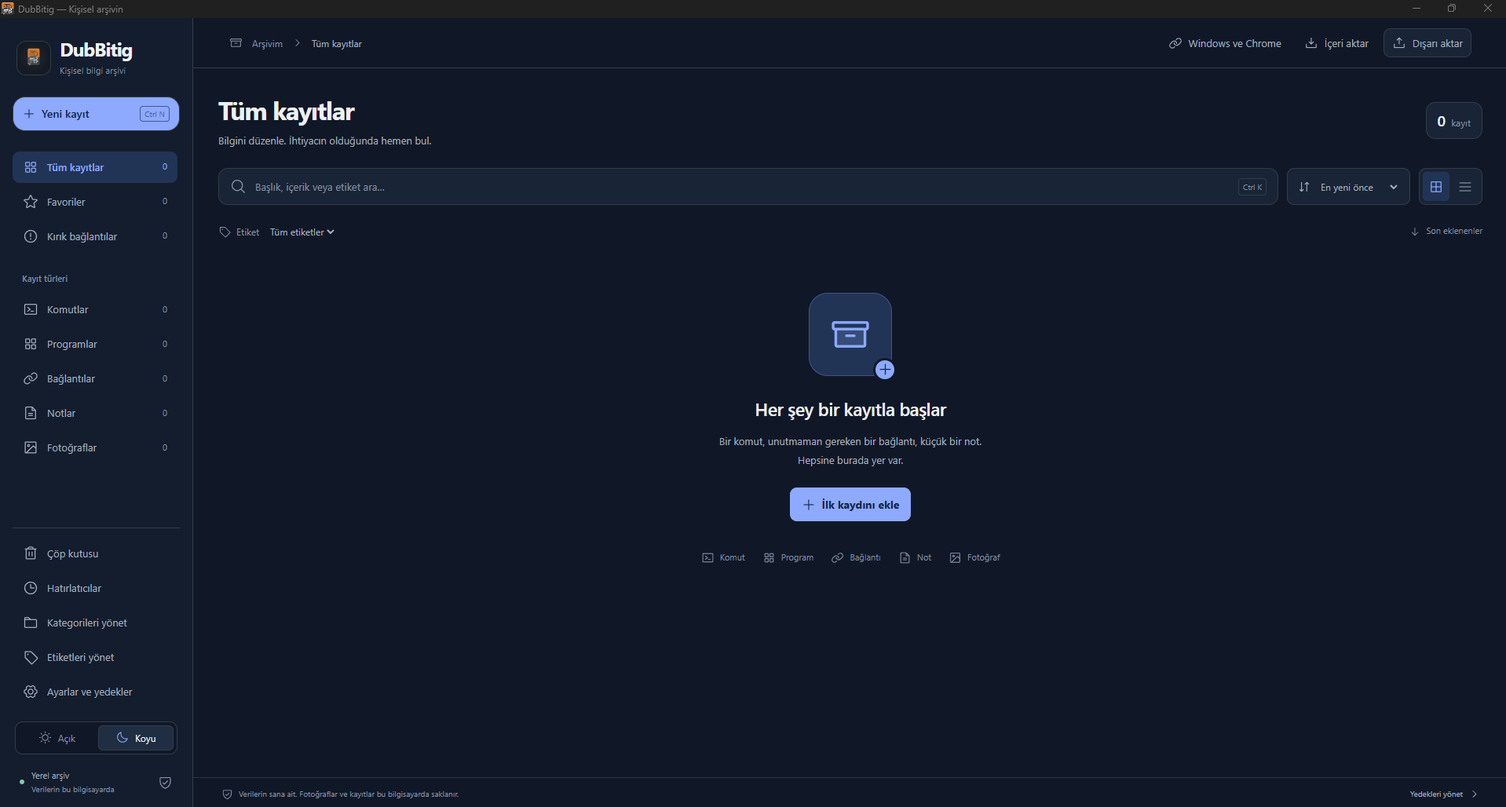
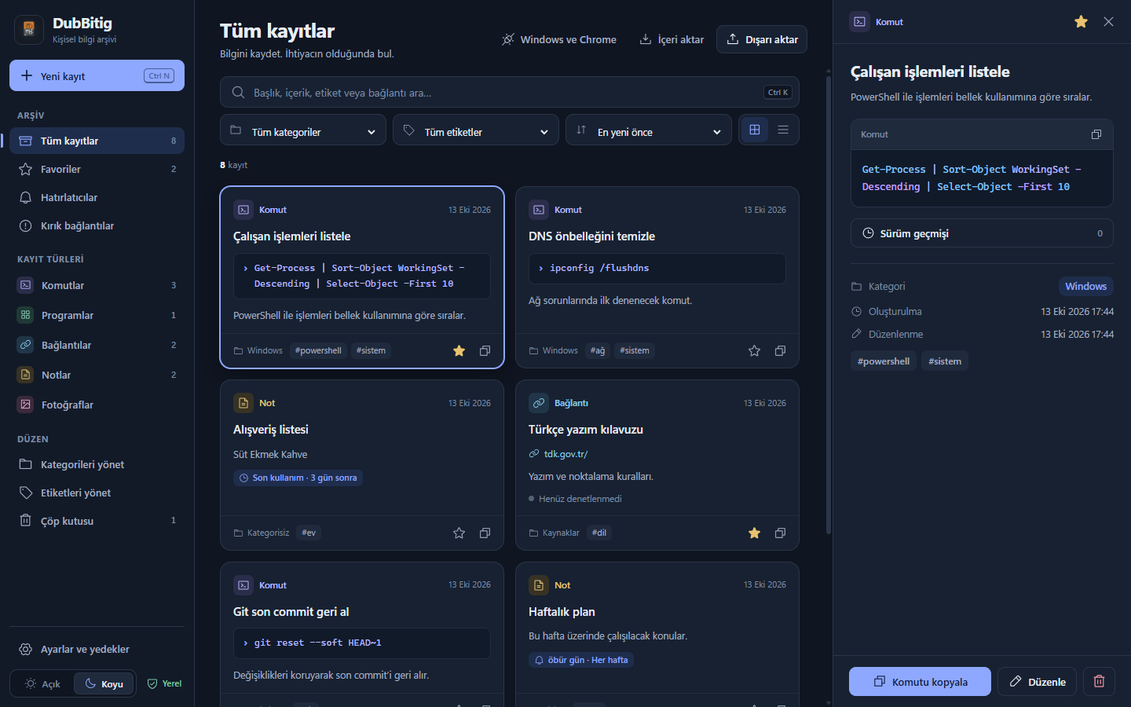
Çöp kutusunu boşaltma ekle, sürümü 1.7.0 yap ve ekran görüntülerini yenile
- Çöp kutusunu boşalt ve tek kaydı kalıcı silme; yalnızca bu kayıtlara ait
  fotoğraflar diskten kaldırılır, paylaşılan fotoğraflar korunur
- Hiçbir kayda ait olmayan, 1 günden eski fotoğraf/önizleme dosyaları her
  açılışta ve Ayarlar > Veriler'den temizlenir; kaydedilmemiş formların yeni
  fotoğrafları korunur
- Liste görünümünde fotoğraf küçük resmi, kaydedilen kartın vurgulanması
- Sürüm 1.6.0 -> 1.7.0 (uygulama, Chrome eklentisi, başlatıcı, README)
- README ekran görüntüleri yeni arayüzle; npm run screenshots ile yeniden üretilir

diff --git a/src/components/settings-panel.tsx b/src/components/settings-panel.tsx
@@ -23,8 +23,8 @@ export function SettingsPanel({ close, changed, notify, transfer, reset }: { clo
         <div className="section-heading"><h3>Bu bilgisayardaki yedekler</h3><Button variant="ghost" size="sm" onClick={()=>action(()=>getAPI().openFolder('backup'))}><FolderOpen/>Klasörü aç</Button></div><div className="backup-list">{backups.map(b=><div key={b.name}><HardDrive size={20}/><span><strong>{date(b.date)}</strong><small>{b.name.endsWith('auto.sakli')?'Otomatik yedek':'Güvenlik / elle alınan yedek'} · {Math.max(1,Math.round(b.size/1024))} KB</small></span><Button variant="outline" disabled={busy} onClick={()=>action(async()=>{if(await getAPI().restoreBackup(b.name)>=0)notify('Yedek geri yüklendi.');})}><RotateCcw/>Geri yükle</Button></div>)}{!backups.length&&<p className="muted">Henüz yedek yok.</p>}</div>
       </TabsContent>
       <TabsContent value="general" className="space-y-5"><h3>Bağlantılar ve hatırlatıcılar</h3><div className="setting-row"><div><strong>Arka planda bağlantı denetimi</strong><p>Bağlantılar günde bir denetlenir. 404 ve 410 yanıtları kırık, erişim engeli ve zaman aşımı belirsiz gösterilir.</p></div><label className="switch"><input type="checkbox" aria-label="Arka planda bağlantı denetimi" checked={settings?.linkChecker??true} disabled={busy||!settings} onChange={e=>action(()=>getAPI().setLinkChecker(e.target.checked))}/><span/></label></div><div className="flex flex-wrap gap-2"><Button variant="outline" disabled={busy} onClick={()=>action(async()=>{const r=await getAPI().checkLinks();notify(`${r.checked} bağlantı denetlendi, ${r.broken} kırık bağlantı bulundu.`);})}>Bağlantıları şimdi denetle</Button><Button variant="outline" disabled={busy} onClick={()=>action(()=>getAPI().testNotification(),'Deneme bildirimi Windows’a gönderildi.')}>Bildirimi dene</Button></div><p className="hint">Hatırlatıcılar uygulama açıkken çalışır. Kaçırılan tarihler sonraki açılışta bildirilir.</p><div className="settings-callout"><Info/><p>Saatin yanındaki DubBitig simgesinden pencereyi gizleyebilir, açabilir veya panodakini kaydedebilirsin. Pencereyi gizlediğinde hatırlatıcılar çalışmaya devam eder. Pencereyi kapattığında uygulama sistem tepsisine gizlenir; hatırlatıcılar ve yedekleme çalışmaya devam eder. Tamamen kapatmak için tepsi menüsünden Çıkış seç.</p></div><h3>Görünüm</h3><p className="muted">Sol menünün altındaki Açık / Koyu seçimiyle temayı değiştirebilirsin.</p></TabsContent>
-      <TabsContent value="data" className="space-y-6"><section><h3>Veri konumu</h3><div className="data-location"><code>{settings?.dataPath??'Yükleniyor…'}</code><Button variant="ghost" size="icon" aria-label="Veri klasörünü aç" onClick={()=>action(()=>getAPI().openFolder('data'))}><FolderOpen/></Button></div><p className="hint">Standart konum: %APPDATA%\DubBitig. Kayıtlar, fotoğraflar ve yerel yedekler burada saklanır.</p></section><section><h3>İçeri ve dışarı aktar</h3><p className="muted">Tüm arşivi, seçilen kategorileri veya kayıt türlerini fotoğraflarıyla taşı.</p><div className="flex flex-wrap gap-2 mt-3"><Button variant="outline" disabled={busy} onClick={()=>transfer('export')}><Upload/>Dışarı aktar</Button><Button variant="outline" disabled={busy} onClick={()=>transfer('import')}><Download/>İçeri aktar</Button><Button variant="outline" disabled={busy} onClick={()=>action(async()=>{if(await getAPI().importArchive('replace')!==null)notify('Arşiv geri yüklendi.');})}><RotateCcw/>Dosyadan geri yükle</Button></div><p className="hint">Arşiv sınırı 512 MB. Yedekler şifrelenmez; bir kopyasını başka bir diskte saklayabilirsin.</p></section><section className="danger-zone"><h3>Bütün verileri sil</h3><p>Kayıtlar, çöp kutusu, sürüm geçmişi, fotoğraflar, kategoriler, etiketler, hatırlatıcılar, ayarlar ve bu klasördeki bütün yedekler kalıcı olarak silinir. Başka konumlara dışarı aktardığın dosyalar silinmez.</p><Button variant="destructive" disabled={busy} onClick={()=>{setPhrase('');setConfirm(true);}}><Trash2/>Bütün verileri sil</Button></section></TabsContent>
-      <TabsContent value="about" className="space-y-6"><div className="flex items-center gap-5"><img src="./db.jpg" alt="DubBitig" className="size-20 rounded-2xl object-cover"/><div><h2 className="text-3xl font-semibold tracking-tight">DubBitig</h2><p className="text-muted-foreground mt-1">Kişisel bilgi arşivin</p><Badge variant="secondary" className="mt-2">Sürüm {settings?.version??'1.6.0'}</Badge></div></div><p className="about-lead">Hatırlamak istediğin bilgiyi tek bir yerde biriktir, düzenle ve ihtiyaç duyduğunda kolayca bul.</p><p className="muted">DubBitig; bilgisayar ve terminal komutlarını, kullandığın programları, web bağlantılarını, notlarını ve fotoğraflarını bilgisayarında saklamak için tasarlanmıştır. Kategoriler ve etiketlerle düzenler, aramayla bulur ve komutları tek tıkla kopyalarsın.</p><p className="muted">Markdown ile notlarını biçimlendirebilir, kodlarını sözdizimi vurgulamasıyla okuyabilir, geçmiş sürümlere dönebilir ve hatırlatıcılar ekleyebilirsin. Yedekleme ve kategori bazında içeri/dışarı aktarma, arşivini taşımana yardımcı olur.</p><div className="name-origin"><span>ADININ HİKÂYESİ</span><h3>Dub <b>+</b> Bitig</h3><p>Sümerce <strong>Dub (Tablet)</strong> ve Eski Türkçe <strong>Bitig (Yazı)</strong> sözcüklerinin birleşimidir. Bilgiyi kaydetme ve koruma fikrini taşır.</p></div><p className="hint">Veriler yerel olarak saklanır. Site önizlemesi ve bağlantı denetimi internet kullanır. Self-hosted/web senkronizasyonuna uygun servis ve adapter yapısı bulunur; bu sürümde senkronizasyon etkin değildir.</p></TabsContent>
+      <TabsContent value="data" className="space-y-6"><section><h3>Veri konumu</h3><div className="data-location"><code>{settings?.dataPath??'Yükleniyor…'}</code><Button variant="ghost" size="icon" aria-label="Veri klasörünü aç" onClick={()=>action(()=>getAPI().openFolder('data'))}><FolderOpen/></Button></div><p className="hint">Standart konum: %APPDATA%\DubBitig. Kayıtlar, fotoğraflar ve yerel yedekler burada saklanır.</p></section><section><h3>İçeri ve dışarı aktar</h3><p className="muted">Tüm arşivi, seçilen kategorileri veya kayıt türlerini fotoğraflarıyla taşı.</p><div className="flex flex-wrap gap-2 mt-3"><Button variant="outline" disabled={busy} onClick={()=>transfer('export')}><Upload/>Dışarı aktar</Button><Button variant="outline" disabled={busy} onClick={()=>transfer('import')}><Download/>İçeri aktar</Button><Button variant="outline" disabled={busy} onClick={()=>action(async()=>{if(await getAPI().importArchive('replace')!==null)notify('Arşiv geri yüklendi.');})}><RotateCcw/>Dosyadan geri yükle</Button></div><p className="hint">Arşiv sınırı 512 MB. Yedekler şifrelenmez; bir kopyasını başka bir diskte saklayabilirsin.</p></section><section><h3>Kullanılmayan dosyalar</h3><p className="muted">Hiçbir kayda ait olmayan, 1 günden eski fotoğraf ve site önizleme dosyalarını siler. Kayıtlara ve yedeklere dokunmaz.</p><Button variant="outline" className="mt-3" disabled={busy} onClick={()=>action(async()=>{const r=await getAPI().cleanupAssets();notify(r.files?`${r.files} kullanılmayan dosya silindi (${r.bytes<1048576?Math.max(1,Math.round(r.bytes/1024))+' KB':(r.bytes/1048576).toFixed(1)+' MB'}).`:'Silinecek kullanılmayan dosya yok.');})}><Trash2/>Kullanılmayan dosyaları temizle</Button></section><section className="danger-zone"><h3>Bütün verileri sil</h3><p>Kayıtlar, çöp kutusu, sürüm geçmişi, fotoğraflar, kategoriler, etiketler, hatırlatıcılar, ayarlar ve bu klasördeki bütün yedekler kalıcı olarak silinir. Başka konumlara dışarı aktardığın dosyalar silinmez.</p><Button variant="destructive" disabled={busy} onClick={()=>{setPhrase('');setConfirm(true);}}><Trash2/>Bütün verileri sil</Button></section></TabsContent>
+      <TabsContent value="about" className="space-y-6"><div className="flex items-center gap-5"><img src="./db.jpg" alt="DubBitig" className="size-20 rounded-2xl object-cover"/><div><h2 className="text-3xl font-semibold tracking-tight">DubBitig</h2><p className="text-muted-foreground mt-1">Kişisel bilgi arşivin</p><Badge variant="secondary" className="mt-2">Sürüm {settings?.version??'1.7.0'}</Badge></div></div><p className="about-lead">Hatırlamak istediğin bilgiyi tek bir yerde biriktir, düzenle ve ihtiyaç duyduğunda kolayca bul.</p><p className="muted">DubBitig; bilgisayar ve terminal komutlarını, kullandığın programları, web bağlantılarını, notlarını ve fotoğraflarını bilgisayarında saklamak için tasarlanmıştır. Kategoriler ve etiketlerle düzenler, aramayla bulur ve komutları tek tıkla kopyalarsın.</p><p className="muted">Markdown ile notlarını biçimlendirebilir, kodlarını sözdizimi vurgulamasıyla okuyabilir, geçmiş sürümlere dönebilir ve hatırlatıcılar ekleyebilirsin. Yedekleme ve kategori bazında içeri/dışarı aktarma, arşivini taşımana yardımcı olur.</p><div className="name-origin"><span>ADININ HİKÂYESİ</span><h3>Dub <b>+</b> Bitig</h3><p>Sümerce <strong>Dub (Tablet)</strong> ve Eski Türkçe <strong>Bitig (Yazı)</strong> sözcüklerinin birleşimidir. Bilgiyi kaydetme ve koruma fikrini taşır.</p></div><p className="hint">Veriler yerel olarak saklanır. Site önizlemesi ve bağlantı denetimi internet kullanır. Self-hosted/web senkronizasyonuna uygun servis ve adapter yapısı bulunur; bu sürümde senkronizasyon etkin değildir.</p></TabsContent>
     </Tabs>
     <Dialog open={confirm} onOpenChange={open=>{if(!busy)setConfirm(open);}}><DialogContent><DialogHeader><DialogTitle>Bütün veriler kalıcı olarak silinsin mi?</DialogTitle><DialogDescription>Yerel yedekler de silinecek. Bu işlem geri alınamaz. Devam etmek için BÜTÜN VERİLERİ SİL yaz.</DialogDescription></DialogHeader><Input aria-label="Silme onayı" autoComplete="off" value={phrase} onChange={e=>setPhrase(e.target.value)} disabled={busy}/><div className="flex justify-end gap-2"><Button variant="outline" disabled={busy} onClick={()=>setConfirm(false)}>Vazgeç</Button><Button variant="destructive" disabled={busy||phrase!=='BÜTÜN VERİLERİ SİL'} onClick={()=>action(async()=>{await getAPI().deleteAllData(phrase);await reset();setConfirm(false);},'Bütün yerel veriler silindi.')}>{busy?'Siliniyor…':'Kalıcı olarak sil'}</Button></div></DialogContent></Dialog>
   </DialogContent></Dialog>;

diff --git a/src/App.tsx b/src/App.tsx
@@ -57,7 +57,7 @@ export default function App() {
   const [historyId, setHistoryId] = useState<string | null>(null); const [inbox, setInbox] = useState(false);
   const [integrations, setIntegrations] = useState(false);
   const [toast, setToast] = useState<{ text: string; error: boolean } | null>(null);
-  const [confirmDelete, setConfirmDelete] = useState<Entry | null>(null); const [lightbox, setLightbox] = useState<Asset | null>(null);
+  const [confirmDelete, setConfirmDelete] = useState<Entry | null>(null); const [purge, setPurge] = useState<Entry | 'all' | null>(null); const [lightbox, setLightbox] = useState<Asset | null>(null);
   const searchRef = useRef<HTMLInputElement>(null);
   const notify = useCallback((text: string, error = false) => setToast({ text, error }), []);
   const reload = useCallback(async () => { const data = await getAPI().snapshot(); setSnapshot(data); }, []);
@@ -157,6 +157,7 @@ export default function App() {
           {category && <span className="filter-chip"><Folder size={13}/>{category === '__none' ? 'Kategorisiz' : category}<button aria-label="Kategori filtresini kaldır" onClick={() => setCategory('')}><X size={11}/></button></span>}
           {tag && <span className="filter-chip"><Tag size={13}/>#{tag}<button aria-label="Etiket filtresini kaldır" onClick={() => setTag('')}><X size={11}/></button></span>}
           {query && <span className="filter-chip"><MagnifyingGlass size={13}/>“{query}”</span>}
+          {section === 'trash' && trashed > 0 && <button className="small danger empty-trash" onClick={() => setPurge('all')}><Trash size={15}/>Çöp kutusunu boşalt</button>}
           {filtersActive && <button className="clear-filter" onClick={() => { setQuery(''); setTag(''); setCategory(''); }}><FunnelSimple size={13}/>Filtreleri temizle</button>}
         </div>
         {loading ? <div className="empty"><Archive size={40}/><h2>Arşivin açılıyor…</h2></div> : !filtered.length ? <div className="empty">
@@ -182,7 +183,7 @@ export default function App() {
         <dl className="metadata"><div><dt><Folder size={15}/>Kategori</dt><dd>{current.category ? <button className="meta-link" onClick={() => { setCategory(current.category); setSelected(null); }}>{current.category}</button> : 'Kategorisiz'}</dd></div><div><dt><Clock size={15}/>Oluşturulma</dt><dd>{dateTime(current.createdAt)}</dd></div><div><dt><PencilSimple size={15}/>Düzenlenme</dt><dd>{dateTime(current.updatedAt)}</dd></div></dl>
         {current.tags.length > 0 && <div className="detail-tags">{current.tags.map(t => <button key={t} title="Bu etiketle filtrele" onClick={() => { setTag(t); setSelected(null); }}>#{t}</button>)}</div>}
       </div>
-      <div className="detail-actions">{current.deletedAt ? <button className="primary" onClick={() => run(() => getAPI().trash(current.id, true), 'Kayıt geri alındı.')}><ArrowCounterClockwise size={18}/>Kaydı geri al</button> : <>
+      <div className="detail-actions">{current.deletedAt ? <><button className="primary" onClick={() => run(() => getAPI().trash(current.id, true), 'Kayıt geri alındı.')}><ArrowCounterClockwise size={18}/>Kaydı geri al</button><button className="danger icon-button bordered" aria-label="Kaydı kalıcı olarak sil" title="Kalıcı olarak sil" onClick={() => setPurge(current)}><Trash size={19}/></button></> : <>
         {current.kind === 'link' ? <button className="primary" onClick={() => run(() => getAPI().openUrl(current.url))}><ArrowSquareOut size={18}/>Bağlantıyı aç</button> : current.kind !== 'photo' && <button className="primary" onClick={() => copy(copyText(current))}><Copy size={18}/>{current.kind === 'command' ? 'Komutu kopyala' : 'Kopyala'}</button>}
         <button className={current.kind === 'photo' ? 'primary' : ''} onClick={() => setEditor(current)}><PencilSimple size={18}/>Düzenle</button>
         <button className="danger icon-button bordered" aria-label="Kaydı sil" title="Çöp kutusuna taşı" onClick={() => setConfirmDelete(current)}><Trash size={19}/></button>
@@ -201,6 +202,7 @@ export default function App() {
     {showSettings && <SettingsPanel reset={async () => { setSelected(null); setCategory(''); setTag(''); setQuery(''); setSection('all'); setTheme((await getAPI().settings()).theme); await reload(); }} close={() => setShowSettings(false)} changed={reload} notify={notify} transfer={mode => { setShowSettings(false); setTransfer(mode); }}/>}
     {transfer && <TransferPanel mode={transfer} snapshot={snapshot} initialCategory={category} close={() => setTransfer(null)} changed={reload} notify={notify}/>}
     {confirmDelete && <Modal title="Kaydı çöp kutusuna taşı" close={() => setConfirmDelete(null)}><div className="modal-body"><p><strong>{confirmDelete.title}</strong> çöp kutusuna taşınacak. Daha sonra Çöp kutusu bölümünden geri alabilirsin.</p></div><div className="modal-actions"><button onClick={() => setConfirmDelete(null)}>Vazgeç</button><button className="danger-solid" onClick={() => run(async () => { await getAPI().trash(confirmDelete.id); setConfirmDelete(null); setSelected(null); }, 'Kayıt çöp kutusuna taşındı.')}><Trash size={18}/>Çöp kutusuna taşı</button></div></Modal>}
+    {purge && <Modal title={purge === 'all' ? 'Çöp kutusunu boşalt' : 'Kaydı kalıcı olarak sil'} close={() => setPurge(null)}><div className="modal-body"><p>{purge === 'all' ? <><strong>{trashed} kayıt</strong> ve yalnızca bu kayıtlara ait fotoğraflar kalıcı olarak silinecek.</> : <><strong>{purge.title}</strong> ve yalnızca bu kayda ait fotoğraflar kalıcı olarak silinecek.</>}</p><p className="muted">Bu işlem geri alınamaz. Daha önce alınmış yedeklerdeki kopyalar korunur.</p></div><div className="modal-actions"><button onClick={() => setPurge(null)}>Vazgeç</button><button className="danger-solid" onClick={() => run(async () => { const result = await getAPI().emptyTrash(purge === 'all' ? undefined : purge.id); setPurge(null); setSelected(null); notify(`${result.entries} kayıt kalıcı olarak silindi${result.files ? `, ${result.files} dosya temizlendi (${size(result.bytes)})` : ''}.`); })}><Trash size={18}/>{purge === 'all' ? 'Çöp kutusunu boşalt' : 'Kalıcı olarak sil'}</button></div></Modal>}
     {lightbox && <Modal title={lightbox.name} close={() => setLightbox(null)} wide><Photo asset={lightbox} className="lightbox-image"/></Modal>}
     {toast && <Notification {...toast} close={() => setToast(null)}/>}
   </div>;

diff --git a/electron/service.ts b/electron/service.ts
@@ -133,6 +133,29 @@ export class ArchiveService {
     const entry = this.repo.get(z.string().uuid().parse(id)); if (!entry) throw new Error('Kayıt bulunamadı.');
     const now = new Date().toISOString(); this.repo.put({ ...entry, deletedAt: restore ? null : now, updatedAt: now, revision: entry.revision + 1 });
   }
+  // Permanently removes trashed entries (all, or one) and the photo files nothing references any more.
+  emptyTrash(id?: string) {
+    if (id !== undefined) z.string().uuid().parse(id);
+    const snapshot = this.snapshot();
+    const removed = snapshot.entries.filter(e => e.deletedAt && (id === undefined || e.id === id));
+    if (id !== undefined && !removed.length) throw new Error('Kayıt çöp kutusunda bulunamadı.');
+    if (removed.length) { snapshot.entries = snapshot.entries.filter(e => !removed.includes(e)); this.repo.replace(snapshot); }
+    const swept = this.cleanupAssets(undefined, Date.now(), new Set(removed.flatMap(e => entryAssets(e).map(a => a.id))));
+    return { entries: removed.length, ...swept };
+  }
+  // Files younger than minAge may belong to a form that has not been saved yet.
+  cleanupAssets(minAge = 24 * 60 * 60 * 1000, now = Date.now(), released = new Set<string>()) {
+    const used = new Set(this.snapshot().entries.flatMap(e => entryAssets(e).map(a => a.id)));
+    let files = 0; let bytes = 0;
+    for (const name of readdirSync(this.assetPath)) {
+      const id = name.replace(/\.tmp$/, '');
+      if (!/^[0-9a-f-]{36}$/i.test(id) || used.has(id) && name === id) continue;
+      const path = join(this.assetPath, name); const stat = statSync(path);
+      if (!stat.isFile() || !released.has(id) && now - stat.mtimeMs < minAge) continue;
+      unlinkSync(path); files++; bytes += stat.size;
+    }
+    return { files, bytes };
+  }
   category(action: 'add' | 'rename' | 'delete', name: string, next?: string) {
     z.enum(['add', 'rename', 'delete']).parse(action);
     name = z.string().trim().min(1).max(80).parse(name);

diff --git a/src/shared/model.ts b/src/shared/model.ts
@@ -49,7 +49,8 @@ export interface ArchivePort {
   restoreRevision(id: string, revisionId: string): Promise<Entry>;
 }
 export interface AssetPort { addPhotos(): Promise<Asset[]>; image(id: string): Promise<string> }
-export interface DesktopAPI { deleteAllData(confirmation: string):Promise<void>; captureClipboard():Promise<Entry>; integrationFolder():Promise<void>; integrationWelcome():Promise<boolean>; onCaptured(callback:(value:{id:string;title:string})=>void):()=>void }
+export interface CleanupResult { entries?: number; files: number; bytes: number }
+export interface DesktopAPI { deleteAllData(confirmation: string):Promise<void>; emptyTrash(id?: string):Promise<CleanupResult & { entries: number }>; cleanupAssets():Promise<CleanupResult>; captureClipboard():Promise<Entry>; integrationFolder():Promise<void>; integrationWelcome():Promise<boolean>; onCaptured(callback:(value:{id:string;title:string})=>void):()=>void }
 export interface BackupPort { exportArchive(scope?: TransferScope): Promise<boolean>; importArchive(mode: 'merge' | 'replace', scope?: TransferScope): Promise<number | null>; backup(): Promise<void>; backups(): Promise<BackupInfo[]>; restoreBackup(name: string): Promise<number>; settings(): Promise<Settings>; setAutoBackup(enabled: boolean): Promise<void>; setTheme(theme: Theme): Promise<void> }
 export interface DesktopAPI extends ArchivePort, AssetPort, BackupPort { copy(text: string): Promise<void>; openUrl(url: string): Promise<void>; openFolder(kind: 'data' | 'backup'): Promise<void>; setBackupPeriod(period: BackupPeriod): Promise<void>; previewUrl(url: string): Promise<WebPreview>; checkLinks(id?: string): Promise<{ checked: number; broken: number }>; setLinkChecker(enabled: boolean): Promise<void>; testNotification(): Promise<void>; readNotice(id: string, noticeId: string): Promise<void> }
 // Future HTTP adapters implement ArchivePort/AssetPort. Sync transport remains optional.

diff --git a/tests/service.test.ts b/tests/service.test.ts
@@ -265,3 +265,21 @@ test('site önizlemesi bildirilen karakter kümesiyle çözülür', () => {
   assert.match(decodeHtml(html, 'text/html; charset=windows-1254'), /İstanbul şehir/);
   assert.match(decodeHtml(Buffer.from('<meta charset="utf-8"><title>Çay</title>')), /Çay/);
 });
+test('çöp kutusunu boşaltmak yalnızca silinen kayıtları ve artık kullanılmayan fotoğrafları kalıcı siler', async () => {
+  const f = await fixture(); try {
+    const path = join(f.dir, 'kaynak.png'); writeFileSync(path, pngBytes);
+    const shared = f.service.addPhoto(path), own = f.service.addPhoto(path), pending = f.service.addPhoto(path);
+    const kept = f.service.save({ ...draft('Kalan'), assets: [shared] });
+    const gone = f.service.save({ ...draft('Silinecek'), assets: [shared, own] }); f.service.trash(gone.id);
+    const other = f.service.save(draft('Diğer çöp')); f.service.trash(other.id);
+    assert.throws(() => f.service.emptyTrash(kept.id), /bulunamadı/);
+    const one = f.service.emptyTrash(gone.id);
+    assert.equal(one.entries, 1); assert.equal(one.files, 1);
+    assert.ok(existsSync(join(f.service.assetPath, shared.id))); assert.ok(!existsSync(join(f.service.assetPath, own.id)));
+    assert.ok(existsSync(join(f.service.assetPath, pending.id)), 'kaydedilmemiş formun yeni fotoğrafı korunur');
+    assert.equal(f.service.emptyTrash().entries, 1);
+    assert.deepEqual(f.service.snapshot().entries.map(e => e.id), [kept.id]);
+    assert.equal(f.service.cleanupAssets(24 * 3600 * 1000, Date.now() + 2 * 24 * 3600 * 1000).files, 1);
+    assert.ok(!existsSync(join(f.service.assetPath, pending.id))); assert.ok(existsSync(join(f.service.assetPath, shared.id)));
+  } finally { f.close(); }
+});

diff --git a/electron/main.ts b/electron/main.ts
@@ -53,6 +53,8 @@ else {
     });
     handler('deleteAllData', confirmation => { service.deleteAllData(z.string().parse(confirmation)); nativeTheme.themeSource = service.settings().theme; });
     handler('snapshot', () => service.snapshot());
+    handler('emptyTrash', id => service.emptyTrash(id === undefined ? undefined : z.string().parse(id)));
+    handler('cleanupAssets', () => service.cleanupAssets());
     handler('save', (draft, id) => service.save(draft, id));
     handler('trash', (id, restore) => service.trash(id, z.boolean().optional().parse(restore)));
     handler('category', (action, name, next) => service.category(action, name, next));
@@ -176,6 +178,7 @@ else {
       if (service.settings().linkChecker) void service.checkLinks(undefined, undefined, true).catch(() => {});
     };
     tick(); timer = setInterval(tick, 60 * 1000);
+    try { service.cleanupAssets(); } catch { /* Leftover files are retried on the next start. */ }
   }).catch(error => { dialog.showErrorBox('DubBitig başlatılamadı', String(error)); app.quit(); });
   app.on('window-all-closed', () => app.quit());
   app.on('before-quit', () => { quitting = true; tray?.destroy(); tray = undefined; clearInterval(timer);clearInterval(inboxTimer);globalShortcut.unregisterAll(); if (service) { service.autoBackup(); service.repo.close(); service = undefined!; } });

diff --git a/src/dubbitig.css b/src/dubbitig.css
@@ -104,6 +104,8 @@ svg { flex-shrink:0; }
 .filter-chip { display:inline-flex; align-items:center; gap:5px; max-width:240px; padding:3px 4px 3px 9px; border-radius:99px; background:var(--accent-soft); color:var(--accent); font-weight:500; white-space:nowrap; overflow:hidden; text-overflow:ellipsis; }
 .filter-chip button { min-height:0; padding:3px; border:0; border-radius:50%; background:transparent; color:inherit; }
 .filter-chip button:hover { background:var(--accent-line); }
+.empty-trash { margin-left:auto; border-color:var(--danger)!important; background:transparent; }
+.empty-trash:hover { background:var(--danger-bg); border-color:var(--danger); }
 .clear-filter { min-height:0; padding:4px 8px; color:var(--muted); background:transparent; border:0; font-size:12px; }
 
 /* Cards */

diff --git a/README.md b/README.md
@@ -1,4 +1,4 @@
-# DubBitig 1.6
+# DubBitig 1.7
 
 Komut, program, bağlantı, Markdown notu ve fotoğraflar için Türkçe kişisel arşiv. DubBitig adı Sümerce Dub (Tablet) + Eski Türkçe Bitig (Yazı) birleşimidir.
 
@@ -10,15 +10,15 @@ Komut, program, bağlantı, Markdown notu ve fotoğraflar için Türkçe kişise
 
 ### Ana ekran
 
-Kayıt türleri, arama, sıralama ve kategori/etiket yönetimine erişim sunan koyu temalı arşiv ekranı.
+Bölümlere ayrılmış sol menü, sabit arama ve filtre çubuğu, kayıt kartları ve bağlama göre eylem sunan ayrıntı paneli.
 
-![DubBitig ana ekranı: sol menü, arama alanı ve yeni kayıt oluşturma](docs/screenshots/ana-ekran.png)
+![DubBitig ana ekranı: sol menü, arama ve filtreler, kayıt kartları ve ayrıntı paneli](docs/screenshots/ana-ekran.png)
 
 ### Yeni kayıt ve Markdown düzenleyici
 
-Komut, program, bağlantı, not veya fotoğraf kaydı oluşturma; Markdown biçimlendirme ve önizleme seçenekleri.
+Komut, program, bağlantı, not veya fotoğraf kaydı oluşturma; Markdown biçimlendirme, önizleme ve hızlı hatırlatma seçenekleri.
 
-![Bağlantı kaydı oluşturma formu ve Markdown düzenleyici](docs/screenshots/yeni-kayit.png)
+![Not kaydı oluşturma formu ve Markdown düzenleyici](docs/screenshots/yeni-kayit.png)
 
 ### Yedekleme
 
@@ -34,13 +34,13 @@ Bağlantı denetimi, bildirim testi ve sistem tepsisinde çalışma hakkında bi
 
 ### Veri yönetimi
 
-Veri klasörüne erişim, içeri/dışarı aktarma, dosyadan geri yükleme ve bütün verileri silme seçenekleri.
+Veri klasörüne erişim, içeri/dışarı aktarma, dosyadan geri yükleme, kullanılmayan dosyaları temizleme ve bütün verileri silme seçenekleri.
 
 ![Veri konumu, arşiv aktarımı ve bütün verileri silme bölümü](docs/screenshots/veri-yonetimi.png)
 
 ## Kurulum ve veri konumu
 
-`release-dubbitig/DubBitig-1.6.0-Setup.exe` dosyasını çalıştırın. Kurulum yönetici izni ister; varsayılan uygulama konumu `C:\Program Files\DubBitig` olur. Eski sürümü kurulumdan önce kapatın. Setup önceki kullanıcı kurulumunu yükseltir; arşivi silmez. `DubBitig-Baslat.cmd` önce Program Files içindeki sürümü açar.
+`release-dubbitig/DubBitig-1.7.0-Setup.exe` dosyasını çalıştırın. Kurulum yönetici izni ister; varsayılan uygulama konumu `C:\Program Files\DubBitig` olur. Eski sürümü kurulumdan önce kapatın. Setup önceki kullanıcı kurulumunu yükseltir; arşivi silmez. `DubBitig-Baslat.cmd` önce Program Files içindeki sürümü açar.
 
 Veriler kullanıcıya özel `%APPDATA%\DubBitig` klasöründedir. Önceki `%APPDATA%\sakli` arşivi ilk açılışta fotoğrafları, ayarları ve yedekleriyle taşınır. Yeni konumda arşiv varsa üzerine yazılmaz. Chrome önceden yeni gelen kutusu oluşturduysa aşamalı taşıma yapılır; kesilen işlem sonraki açılışta tamamlanır. Çakışmada veriler korunarak hata gösterilir.
 
@@ -53,10 +53,11 @@ Ayarlar → Veriler bölümünde gerçek konumu görebilir ve klasörü açabili
 
 ## Kullanım
 
-- Yeni kayıt: **Ctrl+N**. Arama: **Ctrl+K**. Başlık, içerik, açıklama, bağlantı, kategori, etiket ve fotoğraf adı aranır; OCR yoktur.
+- Yeni kayıt: **Ctrl+N**. Arama: **Ctrl+K** veya **/**. Kayıt formunda kaydetme: **Ctrl+S**. Ayrıntı panelini kapatma: **Esc**. Başlık, içerik, açıklama, bağlantı, kategori, etiket ve fotoğraf adı aranır; OCR yoktur.
 - Notlarda Markdown başlıkları, kalın/italik, listeler, tablolar, bağlantılar ve kod blokları kullanılır. Düzenle / Önizleme sekmeleri bulunur. HTML çalıştırılmaz; harici Markdown görselleri otomatik indirilmez, fotoğraf olarak eklenebilir.
 - Komutlarda otomatik veya seçili dilde sözdizimi vurgulaması vardır. PowerShell, Bash, CMD, JavaScript, TypeScript, Python, JSON, SQL, YAML, HTML/XML, CSS ve C# desteklenir. Komutlar çalıştırılmaz; özgün metin tek tıkla kopyalanır.
-- Kategoriler yalnızca **Kategorileri yönet** içinde listelenir. Kayıtları göster düğmesi o kategoriyi filtreler. Kategori/etiket kaldırmak kayıtları silmez.
+- Kategoriler sol menüde listelenmez; **Kategorileri yönet** içinden yönetilir. Arama çubuğunun yanındaki kategori ve etiket filtreleri aramayla birlikte kullanılabilir; etkin filtreler tek tek kaldırılabilir. Kategori/etiket kaldırmak kayıtları silmez.
+- Ayrıntı panelinde kayıt türüne göre ana eylem bulunur: komutta **Komutu kopyala**, bağlantıda **Bağlantıyı aç**. Kart/liste görünümü tercihi hatırlanır.
 - Açık/koyu tema sol alttan seçilir. Arayüz React, Tailwind CSS ve shadcn/ui bileşenleri kullanır.
 - Saatin yanındaki simge: aç, pencereyi gizle, panodakini kaydet, çıkış. Gizlenen pencerenin hatırlatıcıları çalışmaya devam eder. Pencerenin X düğmesi uygulamayı kapatmaz, sistem tepsisine gizler. Tamamen kapatmak için simgeye sağ tıklayıp Çıkış seçin. Uygulamayı yeniden açmak mevcut pencereyi gösterir. Windows açılışında otomatik başlatma etkin değildir.
 - **Program Bilgi** sekmesinde uygulamanın amacı, özellikleri ve adının anlamı bulunur.
@@ -67,6 +68,8 @@ Ayarlar → Veriler bölümünde gerçek konumu görebilir ve klasörü açabili
 Ayarlar → Yedekleme: 30 dakika, günlük, haftalık veya aylık aralık seçilebilir. Değişiklik varsa yedek alınır; uygulama kapalıyken kaçırılan kontrol sonraki açılışta yapılır. Son 14 otomatik yedek tutulur; elle alınanlar korunur.
 
 Dışa aktarmada Tümünü dışa aktar, Kategorileri dışa aktar ve Kayıt türlerini dışa aktar seçenekleri vardır. Tek bir kategori/tür seçerek ayrı dosyaya, birden fazla seçerek tek dosyaya aktarabilirsiniz. Kayıt türleri: komut, program, bağlantı, not, fotoğraf. Kategori/tür aktarımları yalnızca aktif kayıtları ve bunlara ait fotoğrafları/geçmişi içerir. İçeri aktarma bu dosyaları özgün kategori ve türlerini koruyarak birleştirir. İstenirse Hedef kategoriye yeni kopyalar ekle kullanılabilir. Tam arşiv çöp kutusu ve geçmişi de içerir. Tek kategoriye içe aktarma yeni kopyalar oluşturur. Kategori veya kayıt türü dosyası bütün arşivin yerine geri yüklenemez. Tam geri yükleme önce güvenlik yedeği alır. `.sakli` ZIP arşiv sınırı 512 MB; yedekler şifrelenmez. Başka diske kopyalamak disk arızasına karşı koruma sağlar.
+
+Silinen kayıtlar önce **Çöp kutusu**na taşınır. Çöp kutusunda **Çöp kutusunu boşalt** ile tümü, kayıt ayrıntılarındaki kalıcı silme düğmesiyle tek kayıt kalıcı olarak silinir; yalnızca bu kayıtlara ait fotoğraflar da diskten kaldırılır. Daha önce alınmış yedeklerdeki kopyalar korunur. Hiçbir kayda ait olmayan, 1 günden eski fotoğraf ve önizleme dosyaları her açılışta ve **Ayarlar → Veriler → Kullanılmayan dosyaları temizle** ile silinir.
 
 **Ayarlar → Veriler → Bütün verileri sil**, `BÜTÜN VERİLERİ SİL` yazılı onayıyla kayıtları, çöp kutusunu, geçmişi, kategorileri, etiketleri, hatırlatıcıları, fotoğrafları, ayarları ve veri klasöründeki yerel yedekleri kalıcı olarak temizler. Veritabanı boş sayfalardaki eski içeriği bırakmadan yeniden oluşturulur. Başka konuma dışarı aktarılan dosyalar ve kaynak fotoğraflar silinmez. Silme sırasında devam eden web önizlemeleri arşivi yeniden dolduramaz.
 
@@ -94,9 +97,10 @@ npm.cmd run test:features
 npm.cmd run test:tray-transfer
 npm.cmd run dist
 npm.cmd run test:capture
+npm.cmd run screenshots
 ```
 
-`test:capture` için paketlenmiş `release-dubbitig/win-unpacked` gerekir. `SAKLI_TEST_EXE` ile masaüstü/özellik testleri paketlenmiş EXE'ye yönlendirilir. `tests/chrome-test.ps1` ayrı Chrome profiliyle gerçek eklenti aktarımını sınar. Testler gerçek kullanıcı arşivi yerine geçici klasörler kullanır. Derleme için Node.js ve Windows .NET Framework C# derleyicisi gerekir. Geliştirme arayüzü `npm run dev`, Electron için `SAKLI_DEV=1` ile açılabilir.
+`screenshots` README görsellerini örnek verilerle yeniden üretir (önce `build` gerekir). `test:capture` için paketlenmiş `release-dubbitig/win-unpacked` gerekir. `SAKLI_TEST_EXE` ile masaüstü/özellik testleri paketlenmiş EXE'ye yönlendirilir. `tests/chrome-test.ps1` ayrı Chrome profiliyle gerçek eklenti aktarımını sınar. Testler gerçek kullanıcı arşivi yerine geçici klasörler kullanır. Derleme için Node.js ve Windows .NET Framework C# derleyicisi gerekir. Geliştirme arayüzü `npm run dev`, Electron için `SAKLI_DEV=1` ile açılabilir.
 
 ## Mimari
 
